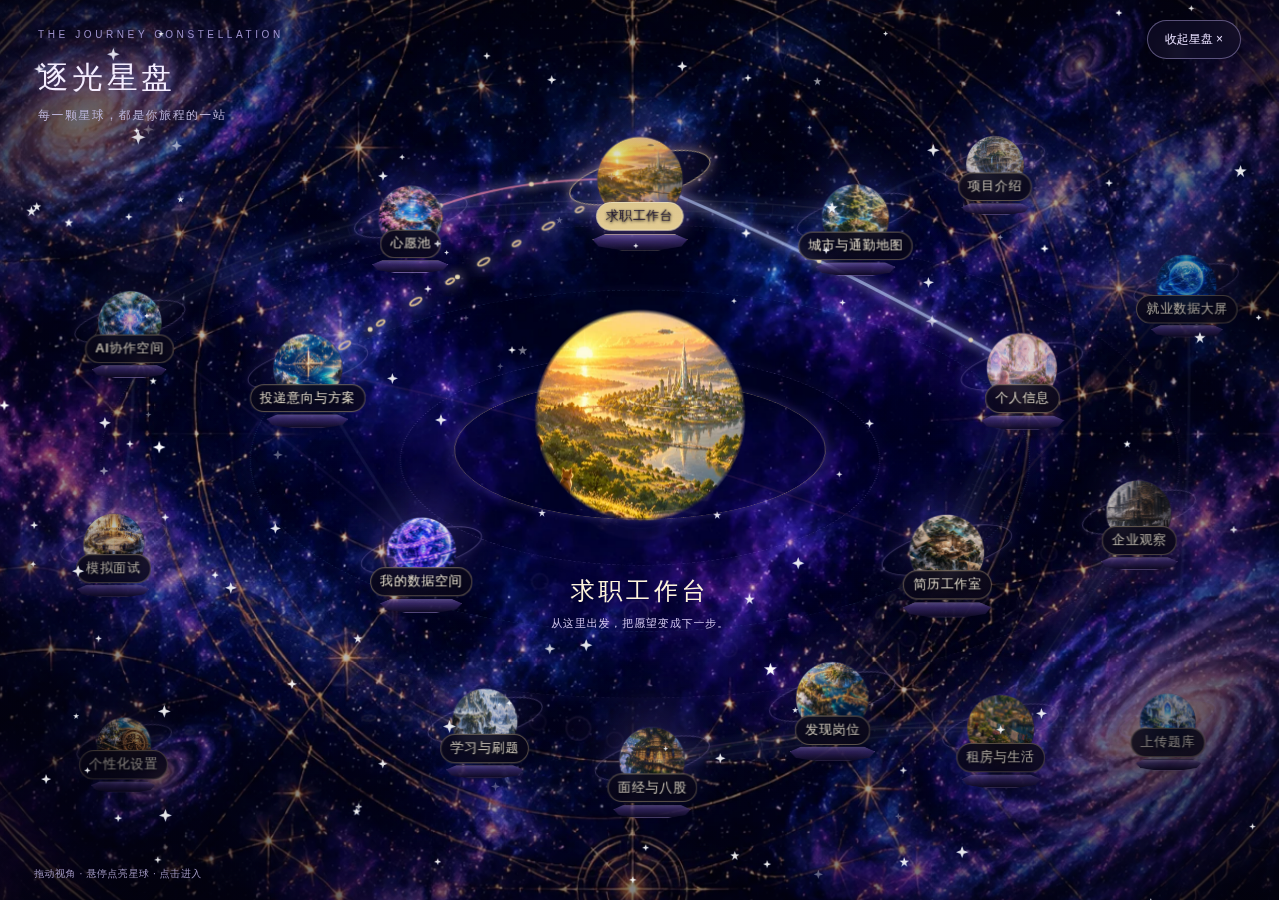
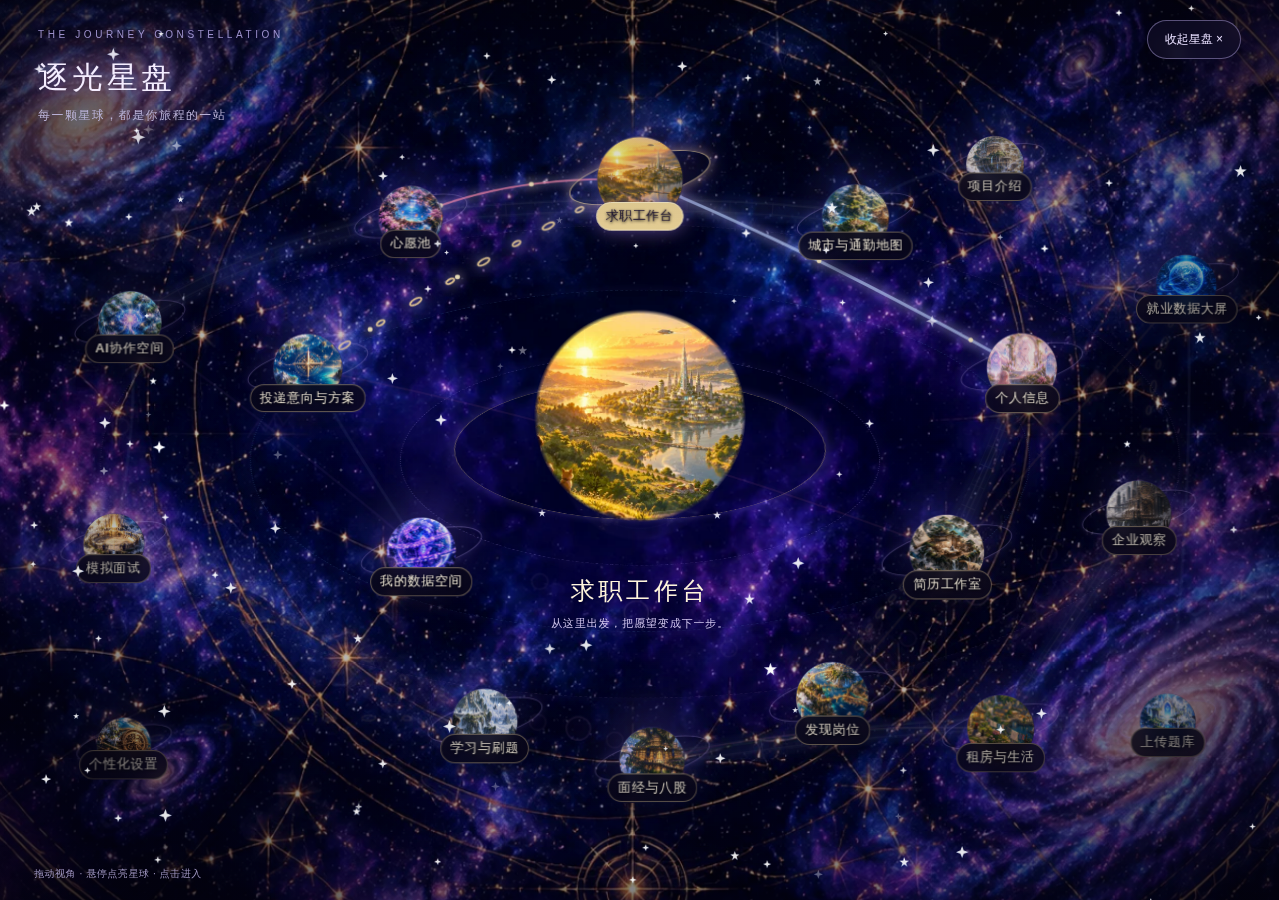
fix: 去掉星球底座框与连接虚线，提升缓存版本
节点移除多余底座框；名称嵌入所属星球；桥面使用分段桥板+栏杆；所有连接取消虚线底；入口资源版本提升到1.12.6；星点改为更大的星形。

diff --git a/app/src/star-map.ts b/app/src/star-map.ts
@@ -106,10 +106,12 @@ export default defineComponent({
         }
       } else if (c.kind === "bridge") {
         decor.push(h("path", { class: "bridge-rail", d: path, transform: "translate(0,-7)" }), h("path", { class: "bridge-rail", d: path, transform: "translate(0,7)" }), h("circle", { class: "bridge-lamp", cx: x1, cy: y1, r: 5 }), h("circle", { class: "bridge-lamp", cx: x2, cy: y2, r: 5 }));
-        for (let k = 1; k <= 9; k++) {
-          const q = qPoint(x1, y1, mx, my, x2, y2, k / 10);
-          const nx = Math.cos((q.angle + 90) * Math.PI / 180) * 8, ny = Math.sin((q.angle + 90) * Math.PI / 180) * 8;
-          decor.push(h("line", { class: "bridge-tie", x1: q.x - nx, y1: q.y - ny, x2: q.x + nx, y2: q.y + ny }));
+        for (let k = 0; k < 10; k++) {
+          const q1 = qPoint(x1, y1, mx, my, x2, y2, k / 10), q2 = qPoint(x1, y1, mx, my, x2, y2, (k + 1) / 10);
+          const a1 = (q1.angle + 90) * Math.PI / 180, a2 = (q2.angle + 90) * Math.PI / 180;
+          const n1x = Math.cos(a1) * 9, n1y = Math.sin(a1) * 9, n2x = Math.cos(a2) * 9, n2y = Math.sin(a2) * 9;
+          decor.push(h("polygon", { class: "bridge-panel", points: [q1.x - n1x, q1.y - n1y, q1.x + n1x, q1.y + n1y, q2.x + n2x, q2.y + n2y, q2.x - n2x, q2.y - n2y].join(" ") }));
+          if (k % 2 === 0) decor.push(h("line", { class: "bridge-tie", x1: q1.x - n1x, y1: q1.y - n1y, x2: q1.x + n1x, y2: q1.y + n1y }));
         }
       } else if (c.kind === "portal") {
         [.27, .5, .73].forEach((t, n) => {
@@ -153,7 +155,6 @@ export default defineComponent({
         "data-page": id,
       }, [
         h("span", { class: "star-planet-shadow" }),
-        h("span", { class: "star-planet-base" }),
         h("span", { class: "star-planet-orbit" }),
         h("span", { class: "star-planet-halo" }),
         h("span", { class: "star-planet-img" }, [

diff --git a/app/src/app.css b/app/src/app.css
@@ -2762,3 +2762,6 @@ html[data-theme="night"] .housing-rent select { color: #eaf2ff; }
 .star-link.link-thread .link-base{stroke-dasharray:none!important;stroke-width:2!important}
 .star-planet-name{position:absolute!important;left:50%!important;bottom:6%!important;top:auto!important;transform:translateX(-50%)!important;z-index:6!important;margin:0!important;font-size:13px!important;padding:3px 9px!important;background:rgba(8,6,25,.82)!important;border:1px solid rgba(239,214,160,.45)!important;text-shadow:0 1px 3px #000!important;white-space:nowrap;pointer-events:none}
 .star-planet:hover .star-planet-name,.star-planet:focus-visible .star-planet-name,.star-planet.is-current .star-planet-name{background:#f0d89b!important;color:#1d1533!important;border-color:#fff2c9!important}
+.star-link .bridge-panel{fill:rgba(188,220,255,.13);stroke:rgba(218,238,255,.5);stroke-width:.7;vector-effect:non-scaling-stroke}
+.star-link .bridge-panel:nth-of-type(2n){fill:rgba(155,192,255,.2)}
+.star-link.is-related .bridge-panel{fill:rgba(211,235,255,.3);stroke:rgba(255,246,210,.8);filter:drop-shadow(0 0 5px rgba(180,216,255,.75))}

diff --git a/app/src/index.html b/app/src/index.html
@@ -5,14 +5,14 @@
     <meta name="viewport" content="width=device-width,initial-scale=1" />
     <meta name="color-scheme" content="light" />
     <title>逐光 · AI求职助手</title>
-    <link rel="stylesheet" href="/assets/app.css?v=1.12.5" />
+    <link rel="stylesheet" href="/assets/app.css?v=1.12.6" />
     <link rel="stylesheet" href="/assets/resume-studio.css" />
     <link rel="stylesheet" href="/assets/proto.css" />
     <link rel="stylesheet" href="/assets/proto-extra.css" />
-    <link rel="stylesheet" href="/assets/main.css?v=1.12.5" />
+    <link rel="stylesheet" href="/assets/main.css?v=1.12.6" />
   </head>
   <body>
     <div id="app"></div>
-    <script type="module" src="/assets/main.js?v=1.12.5"></script>
+    <script type="module" src="/assets/main.js?v=1.12.6"></script>
   </body>
 </html>

diff --git a/docs/MANUAL_TESTING.md b/docs/MANUAL_TESTING.md
@@ -100,7 +100,7 @@
 | 21 | 上传去重/撤销 | 上传 docs/manual-data/jobs-upload-sample.csv 两次；在“已上传的数据”或“上传记录”点“撤销上传” | 首次约5行；第二次替换旧行；两个入口都能撤销并删除数据 | 样例是虚构数据 |
 | 22 | 关闭按钮/圆盘 | 打开通告、登录弹窗；看板娘圆盘 | × 垂直水平居中；紫色圆盘 ✦ 居中 | 深色主题同样 |
 | 23 | 岗位投递意向筛选 | 岗位页点“加入投递意向”并保存；切换“已确认/未确认投递意向” | 卡片出现已确认/待保存徽标；已确认筛选只显示已保存岗位 | 未保存选择算未确认 |
-| 35 | 逐光星盘 3D 宇宙地图 | 点击“展开星盘”；悬停星球；点击任意星球；关闭 | 星盘入口是动态天体盘；18 颗浮空星球/浮岛底座，名称嵌在所属星球上；1279×601/1279×900 下无节点/标签重叠；右下角无连接形式图例；悬停星球/相关连线发光，中央出现大星球预览；中心 3D 天体盘自转，背景星尘闪烁并有流星；点击进入板块；二次打开图片走缓存 | 1279×900 / 1279×601 |
+| 35 | 逐光星盘 3D 宇宙地图 | 点击“展开星盘”；悬停星球；点击任意星球；关闭 | 星盘入口是动态天体盘；18 颗星球无底座框，名称嵌在所属星球上；1279×601/1279×900 下无节点/标签重叠；右下角无连接形式图例；悬停星球/相关连线发光，中央出现大星球预览；中心 3D 天体盘自转，背景星尘闪烁并有流星；点击进入板块；二次打开图片走缓存 | 1279×900 / 1279×601 |
 | 34 | 智能体自定义网页 | 对任一看板娘说“生成一个学习计划网页” | 弹出可最小化的独立网页窗口；报告页左上角无悬浮上传按钮；科目工具箱无 Agent 任务 | 真实 AI |
 | 33 | 讲题覆盖窗/刷新 | 在知微里让AI讲题/做3D；关掉覆盖窗后刷新学习页 | 画布覆盖页面，右上角 − 可最小化；刷新仍在原科目版本 | 覆盖窗 z-index 高 |
 | 32 | 对话 chip/输入/会话 | 问问AI填入长题；Shift+Enter；输入长文本；点新会话/会话；删除历史会话 | 输入框显示[题目]chip；换行不发送；输入框先变宽再增高；可新建/切换/删除会话并刷新保留 | 1279×900 |

diff --git a/docs/FEATURES.md b/docs/FEATURES.md
@@ -6,7 +6,7 @@
 
 - 落地页、品牌、职业旅程地图（17 个板块）
 - 可拖动/收起的星盘导航，位置记忆，键盘可操作
-- 逐光星盘：全屏宇宙星空 3D 旅程地图，18 个板块各自一颗风格化浮空星球/浮岛底座（AI 生成世界场景，带轨道环、悬浮阴影），星盘入口改为动态天体盘；每个名称直接嵌在所属星球上，避免被其他星球遮挡；所有连接取消虚线底，以链环/桥面/星门/世界树/裂隙/星轨实体化；中心天盘连接，悬停点亮星球与相关连线并出现中央“法天象地”预览，点击进入对应板块；中心是单独生成的 3D 天体星盘图，叠加自转/能量扫光、光点星尘、流星和悬浮阴影；图片 webp + immutable 缓存
+- 逐光星盘：全屏宇宙星空 3D 旅程地图，18 个板块各自一颗风格化浮空星球/浮岛底座（AI 生成世界场景，带轨道环、悬浮阴影），星盘入口改为动态天体盘；每个名称直接嵌在所属星球上，避免被其他星球遮挡；移除星球下多余底座框；所有连接取消虚线底，以链环/桥面/星门/世界树/裂隙/星轨实体化；中心天盘连接，悬停点亮星球与相关连线并出现中央“法天象地”预览，点击进入对应板块；中心是单独生成的 3D 天体星盘图，叠加自转/能量扫光、光点星尘、流星和悬浮阴影；图片 webp + immutable 缓存
 - 首页 bigdata_analysis 风格 Tendril 弹簧拖尾：20 条曲线跟随鼠标；透明 canvas、不拦截点击
 - 左上角逐光 Logo 始终回到首页第一个板块；已在首页时回到顶部
 - 就业数据大屏：标题居中；全屏时左上角显示同风格“退出全屏”按钮，非全屏隐藏
